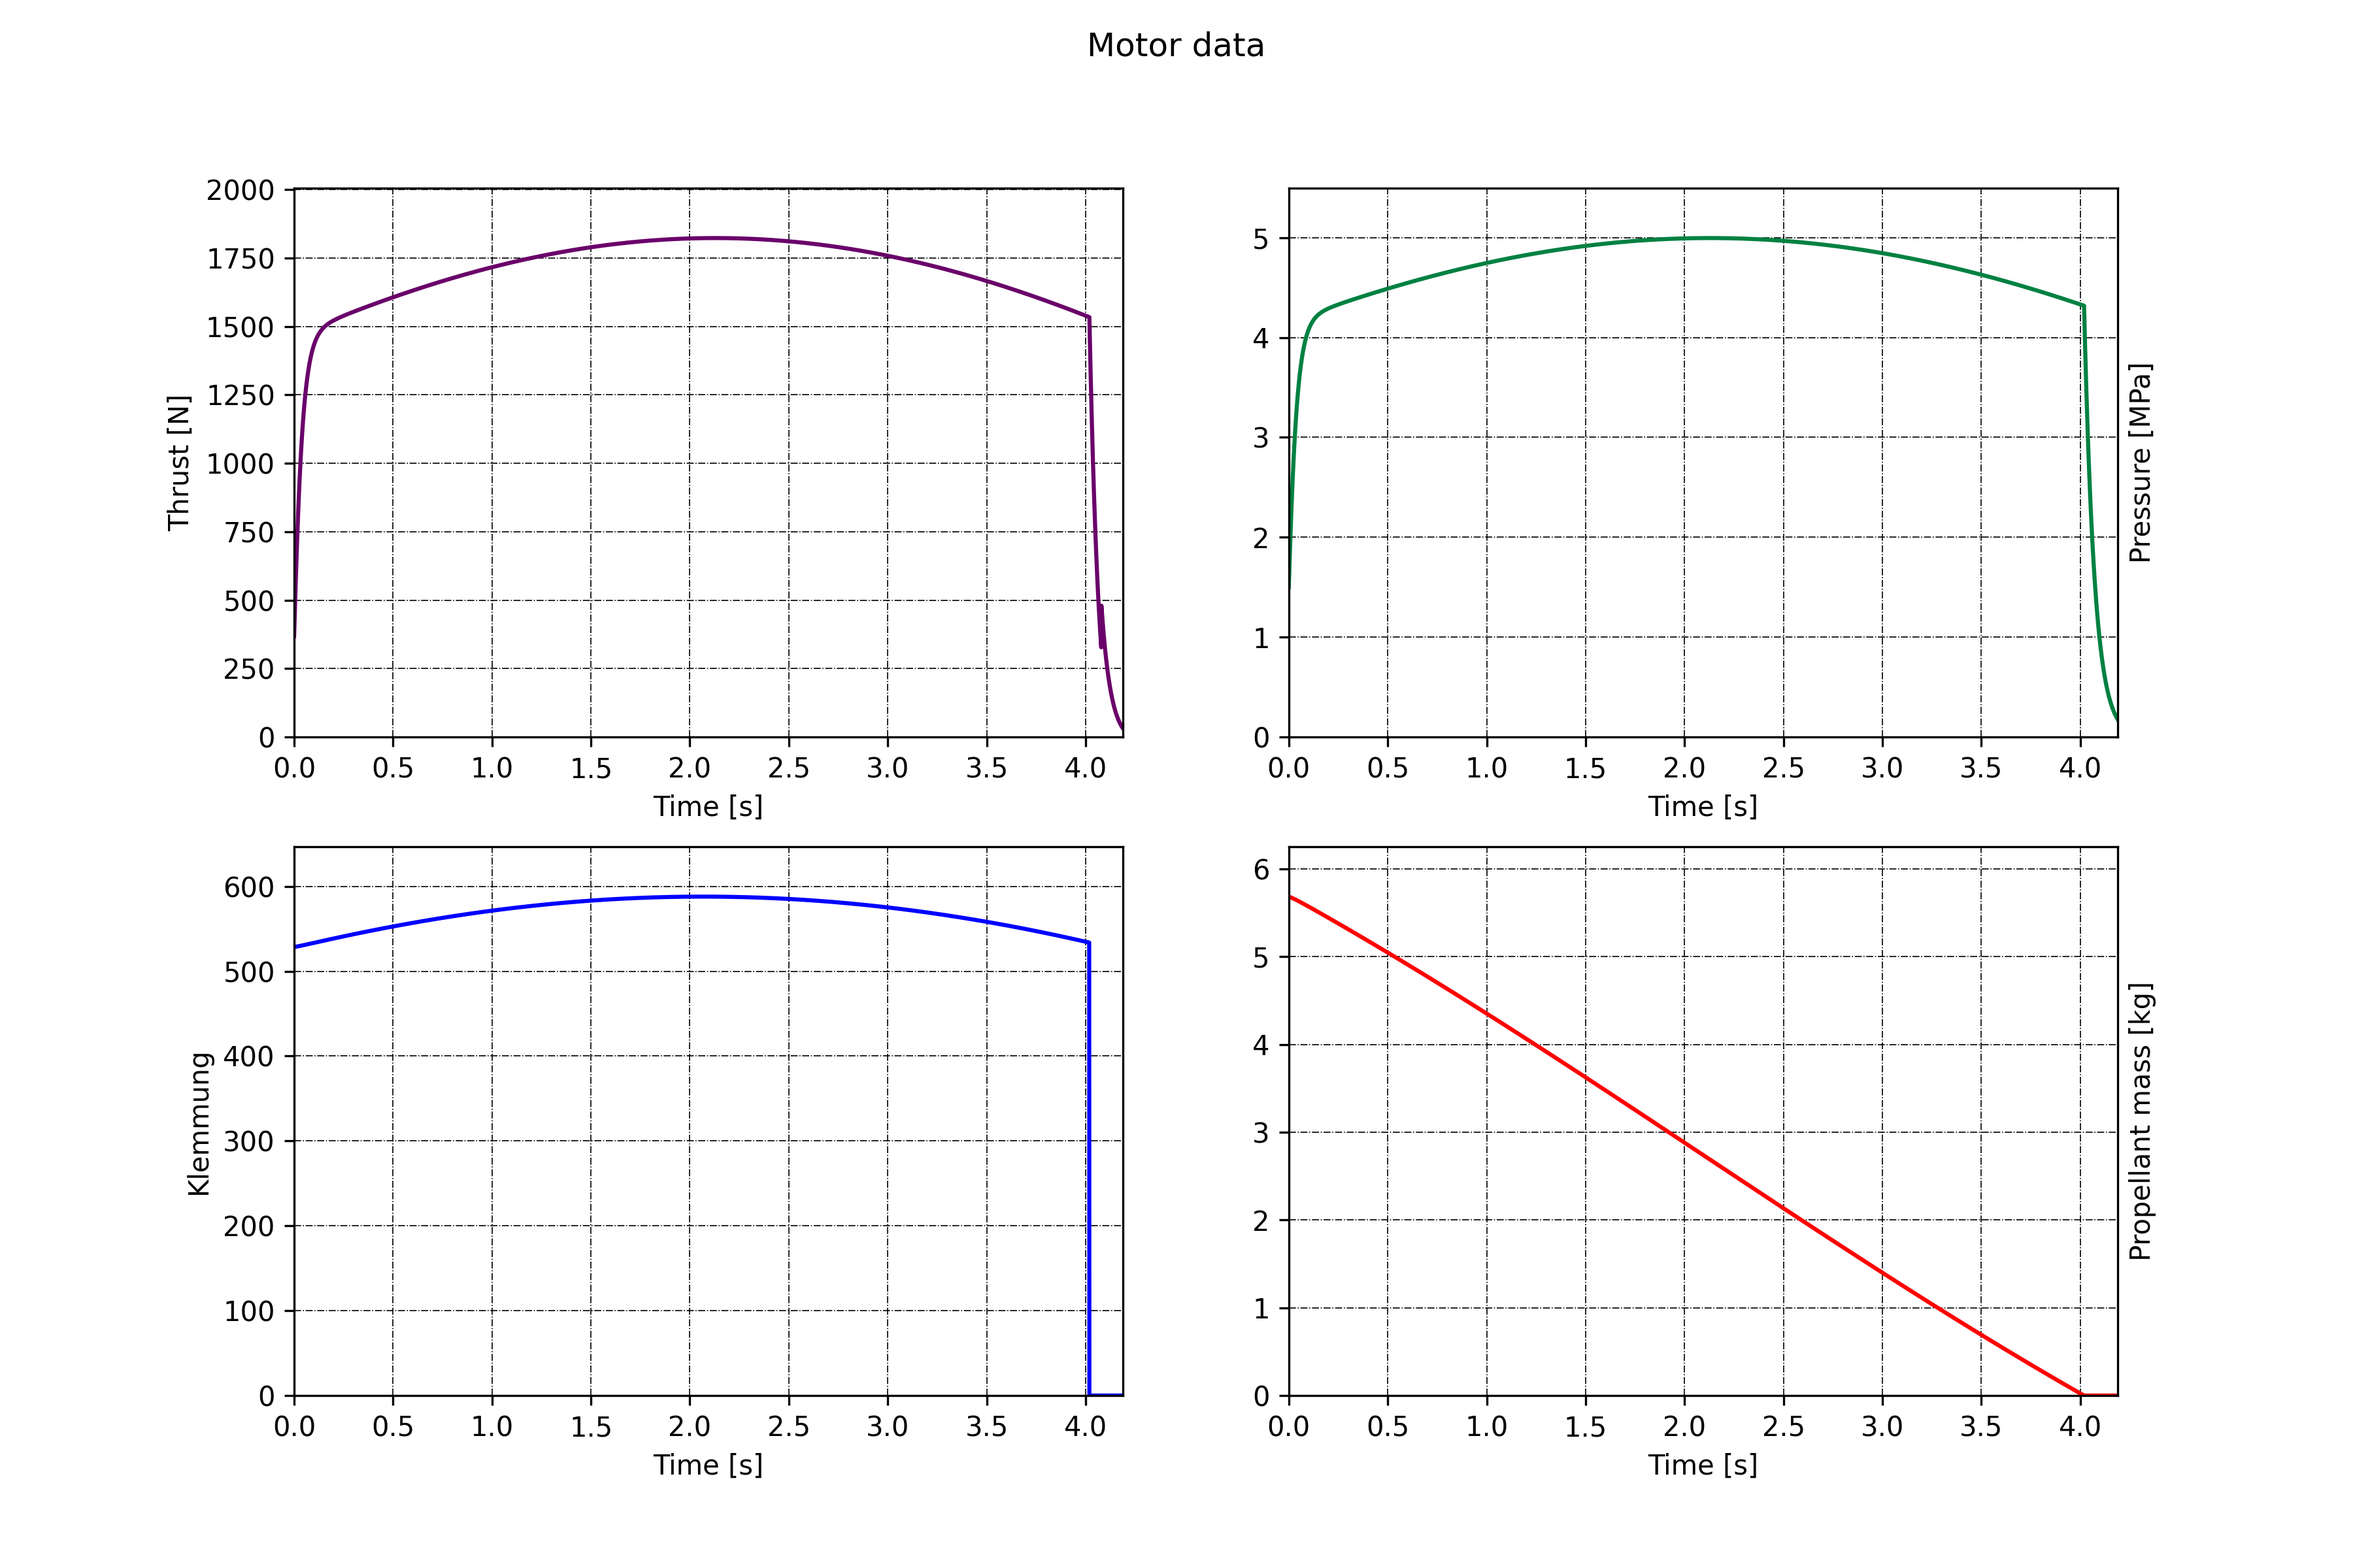
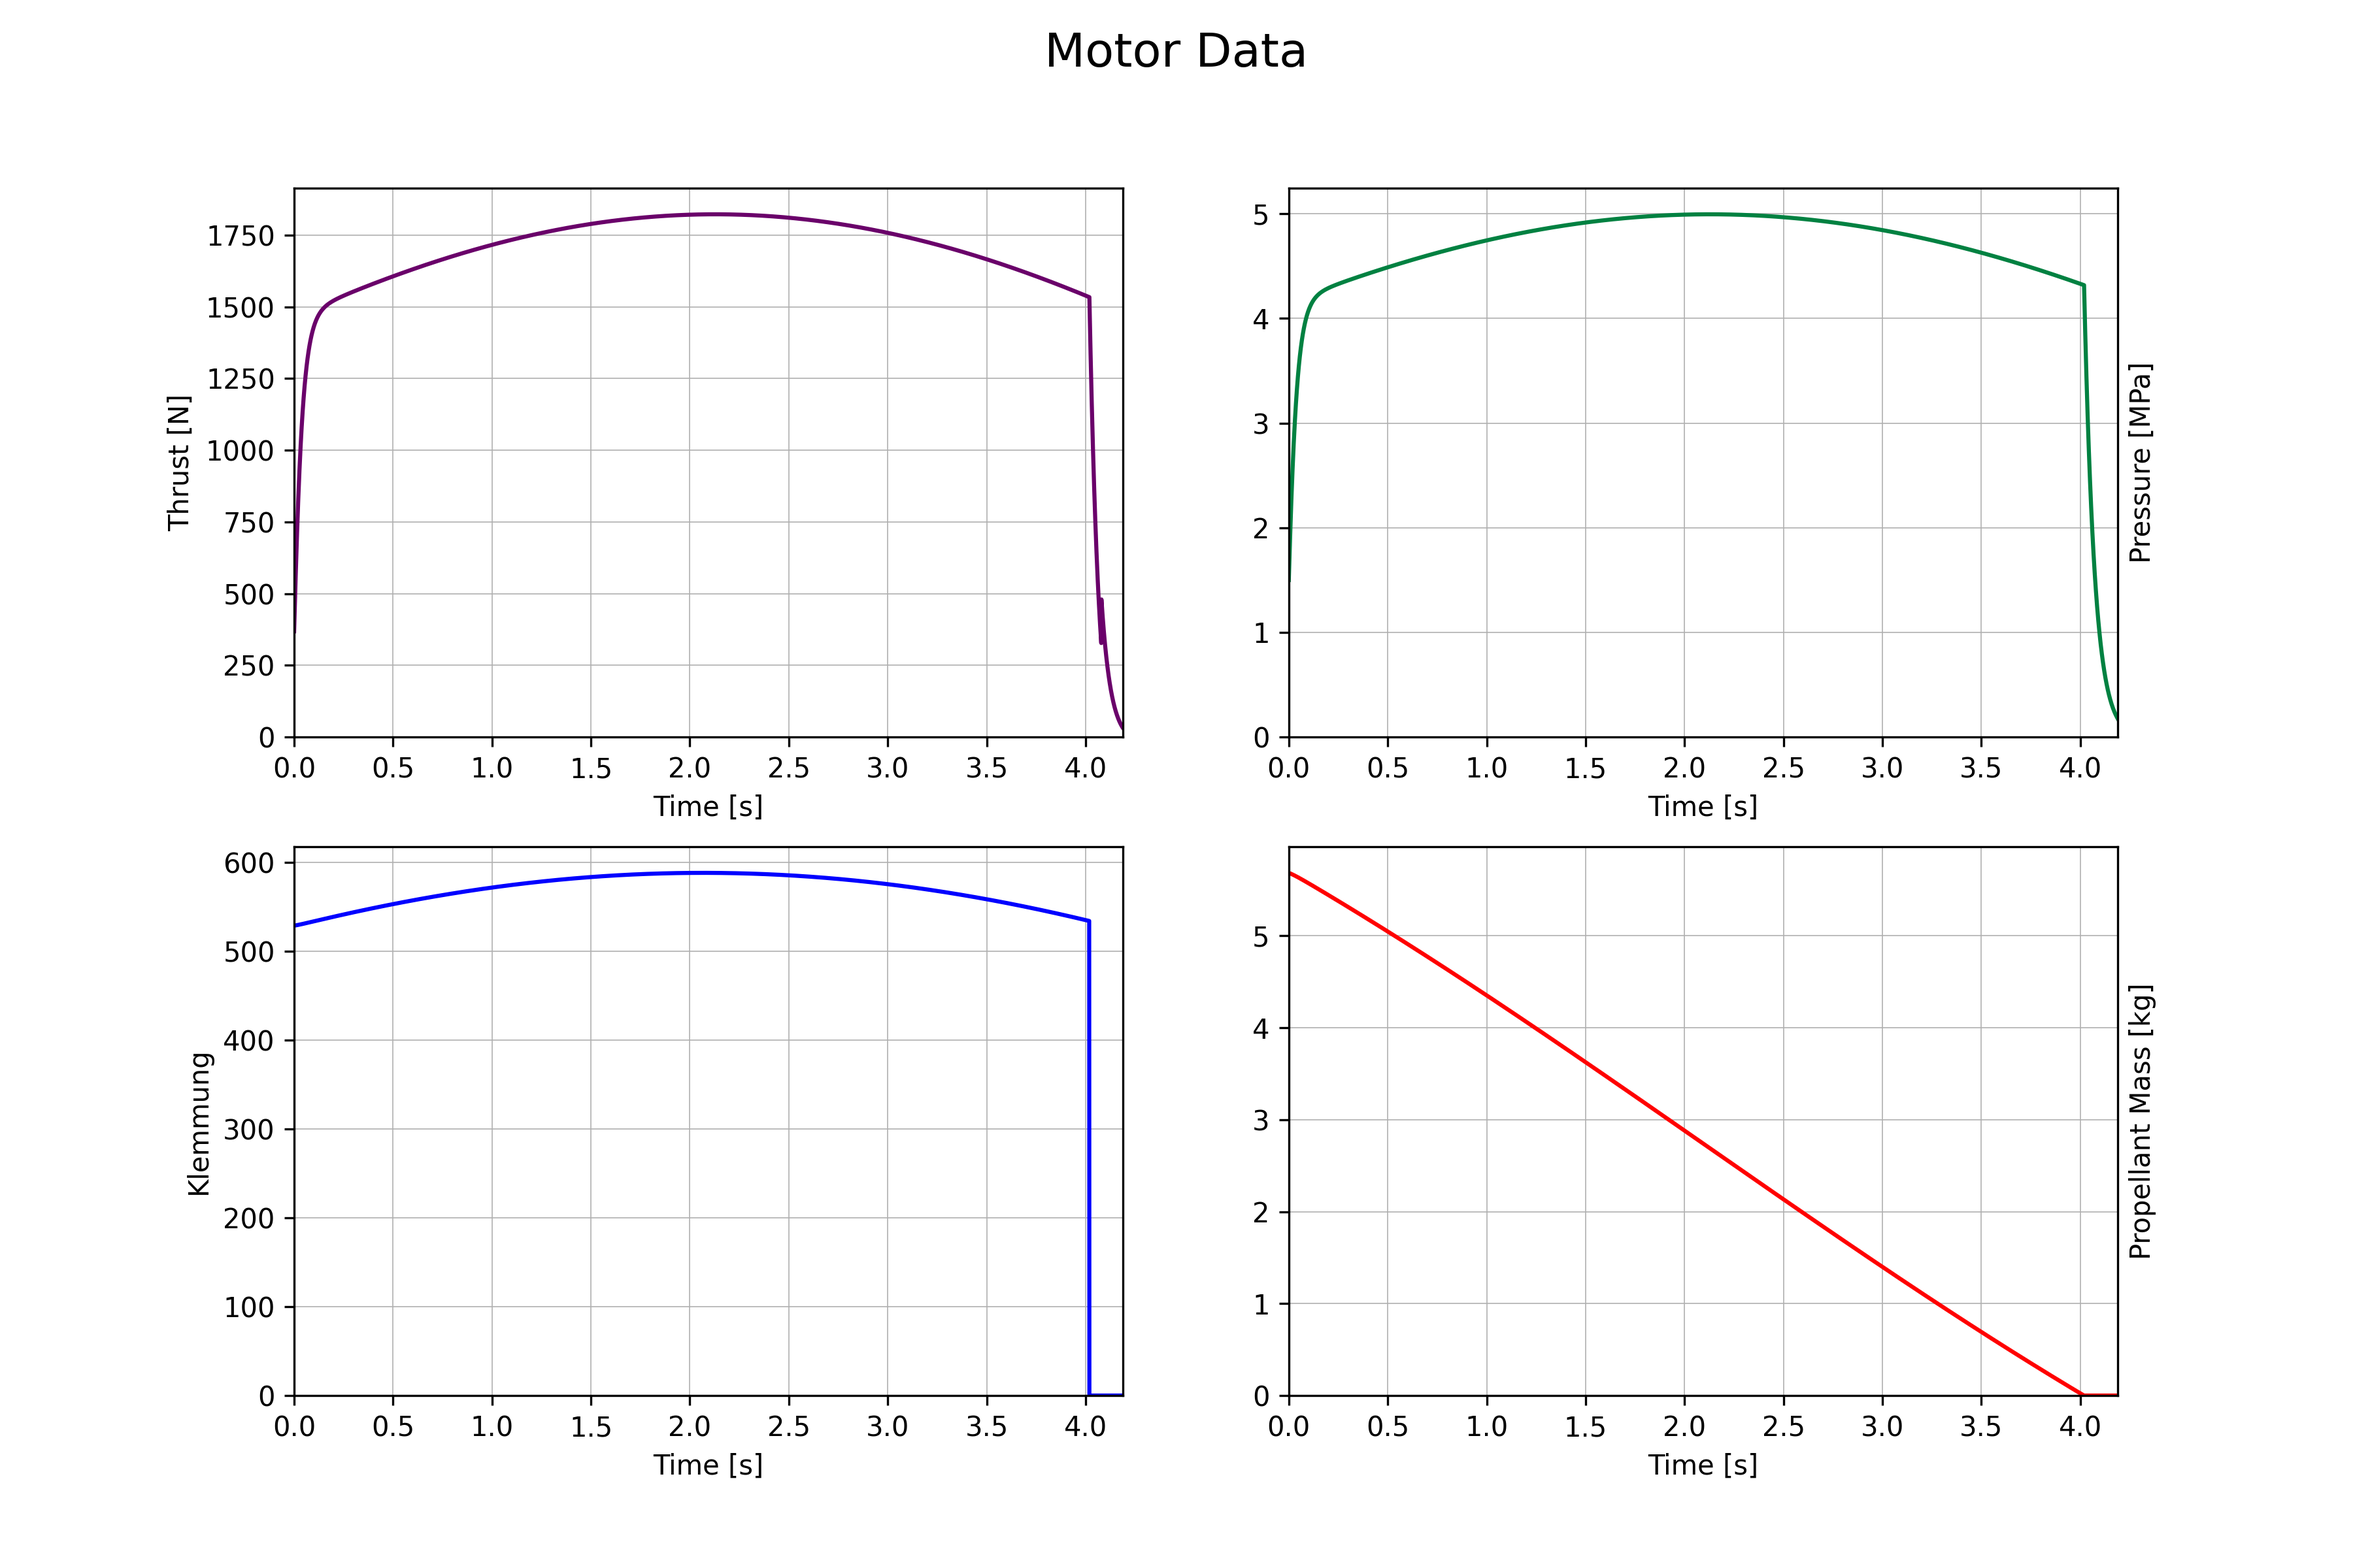
Version Alpha

diff --git a/functions/ib_functions.py b/functions/ib_functions.py
@@ -202,94 +202,65 @@ def plot_performance(T, P0, t):
     """ Plots the chamber pressure and thrust in the same figure, saves to 'output' folder """
     fig1, ax1 = plt.subplots()
 
-    plt.title('Performance curves')
     ax1.set_xlim(0, t[-1])
-    ax1.set_ylim(0, 1.1 * np.max(T))
+    ax1.set_ylim(0, 1.05 * np.max(T))
     ax1.set_ylabel('Thrust [N]', color='#6a006a')
     ax1.set_xlabel('Time [s]')
-    ax1.grid(color='#dc96ea', linestyle='-.', linewidth='.4')
+    ax1.grid(color='#dc96ea', linestyle='-', linewidth='.4')
     ax1.plot(t, T, color='#6a006a', linewidth='1.5')
     ax1.tick_params(axis='y', labelcolor='k')
 
     ax2 = ax1.twinx()
-    ax2.set_ylim(0, 1.2 * np.max(P0) * 1e-6)
-    ax2.set_ylabel('Chamber pressure [MPa]', color='#008141')
-    ax2.grid(color='#a4ea96', linestyle='-.', linewidth='.4')
+    ax2.set_ylim(0, 1.1 * np.max(P0) * 1e-6)
+    ax2.set_ylabel('Chamber Pressure [MPa]', color='#008141')
+    ax2.grid(color='#a4ea96', linestyle='-', linewidth='.4')
     ax2.plot(t, P0 * 1e-6, color='#008141', linewidth='1.5')
     ax2.tick_params(axis='y', labelcolor='k')
 
     fig1.tight_layout()
-    fig1.set_size_inches(12, 8, forward=True)
-    fig1.savefig('output/Pressure-Thrust.png', dpi=300)
-
-
-def plot_data(t, time_burnout, AbCP, Kn, VpCP, pp, T):
-    """ Plots burn area, Klemmung, Propellant mass and thrust """
-    fig2, axs = plt.subplots(2, 2)
-    fig2.suptitle('Motor data')
-
-    axs[0, 0].grid(color='k', linestyle='-.', linewidth='.4')
-    axs[0, 0].set_xlim(0, time_burnout)
-    axs[0, 0].plot(t, AbCP, color='r')
-    axs[0, 0].set_title('Burn area')
-
-    axs[0, 1].grid(color='k', linestyle='-.', linewidth='.4')
-    axs[0, 1].set_xlim(0, time_burnout)
-    axs[0, 1].plot(t, Kn, color='b')
-    axs[0, 1].set_title('Klemmung')
-
-    axs[1, 0].grid(color='k', linestyle='-.', linewidth='.4')
-    axs[1, 0].set_xlim(0, time_burnout)
-    axs[1, 0].plot(t, VpCP * pp, color='m')
-    axs[1, 0].set_title('Grain mass')
-
-    axs[1, 1].grid(color='k', linestyle='-.', linewidth='.4')
-    axs[1, 1].set_xlim(0, t[-1])
-    axs[1, 1].plot(t, T, color='k')
-    axs[1, 1].set_title('Thrust')
-
-    fig2.set_size_inches(12, 8, forward=True)
+    fig1.set_size_inches(10, 6, forward=True)
+    fig1.savefig('output/pressure_thrust.png', dpi=300)
 
     plt.show()
 
 
 def plot_main(t, T, P0, Kn, m_prop):
     fig3 = plt.figure(3)
-    fig3.suptitle('Motor data')
+    fig3.suptitle('Motor Data', size='xx-large')
     gs1 = gs.GridSpec(nrows=2, ncols=2)
 
     ax1 = plt.subplot(gs1[0, 0])
     ax1.set_ylabel('Thrust [N]')
     ax1.set_xlabel('Time [s]')
-    ax1.set_ylim(0, np.max(T) * 1.1)
+    ax1.set_ylim(0, np.max(T) * 1.05)
     ax1.set_xlim(0, t[-1])
-    ax1.grid(color='k', linestyle='-.', linewidth='.4')
+    ax1.grid(linestyle='-', linewidth='.4')
     ax1.plot(t, T, color='#6a006a', linewidth='1.5')
 
     ax2 = plt.subplot(gs1[0, 1])
     ax2.set_ylabel('Pressure [MPa]')
     ax2.yaxis.set_label_position('right')
     ax2.set_xlabel('Time [s]')
-    ax2.set_ylim(0, np.max(P0) * 1e-6 * 1.1)
+    ax2.set_ylim(0, np.max(P0) * 1e-6 * 1.05)
     ax2.set_xlim(0, t[-1])
-    ax2.grid(color='k', linestyle='-.', linewidth='.4')
+    ax2.grid(linestyle='-', linewidth='.4')
     ax2.plot(t, P0 * 1e-6, color='#008141', linewidth='1.5')
 
     ax3 = plt.subplot(gs1[1, 0])
     ax3.set_ylabel('Klemmung')
     ax3.set_xlabel('Time [s]')
-    ax3.set_ylim(0, np.max(Kn) * 1.1)
+    ax3.set_ylim(0, np.max(Kn) * 1.05)
     ax3.set_xlim(0, t[-1])
-    ax3.grid(color='k', linestyle='-.', linewidth='.4')
+    ax3.grid(linestyle='-', linewidth='.4')
     ax3.plot(t, Kn, color='b', linewidth='1.5')
 
     ax4 = plt.subplot(gs1[1, 1])
-    ax4.set_ylabel('Propellant mass [kg]')
+    ax4.set_ylabel('Propellant Mass [kg]')
     ax4.yaxis.set_label_position('right')
     ax4.set_xlabel('Time [s]')
-    ax4.set_ylim(0, np.max(m_prop) * 1.1)
+    ax4.set_ylim(0, np.max(m_prop) * 1.05)
     ax4.set_xlim(0, t[-1])
-    ax4.grid(color='k', linestyle='-.', linewidth='.4')
+    ax4.grid(linestyle='-', linewidth='.4')
     ax4.plot(t, m_prop, color='r', linewidth='1.5')
 
     fig3.set_size_inches(12, 8, forward=True)
@@ -303,9 +274,10 @@ def plot_mass_flux(t, grain_mass_flux):
     N, index = grain_mass_flux.shape
     for i in range(N):
         plt.plot(t, grain_mass_flux[i, :] * 1.42233e-3)
-    plt.title('Mass flux data')
-    plt.ylabel('Mass flux [lb/s-in-in]')
+    plt.ylabel('Mass Flux [lb/s-in-in]')
     plt.xlabel('Time [s]')
-    plt.grid(color='k', linestyle='-.', linewidth='.4')
+    plt.ylim(0, np.max(grain_mass_flux) * 1.42233e-3 * 1.05)
+    plt.xlim(0, t[-1])
+    plt.grid(linestyle='-', linewidth='.4')
     plt.savefig('output/grain_mass_flux.png', dpi=300)
     plt.show()
